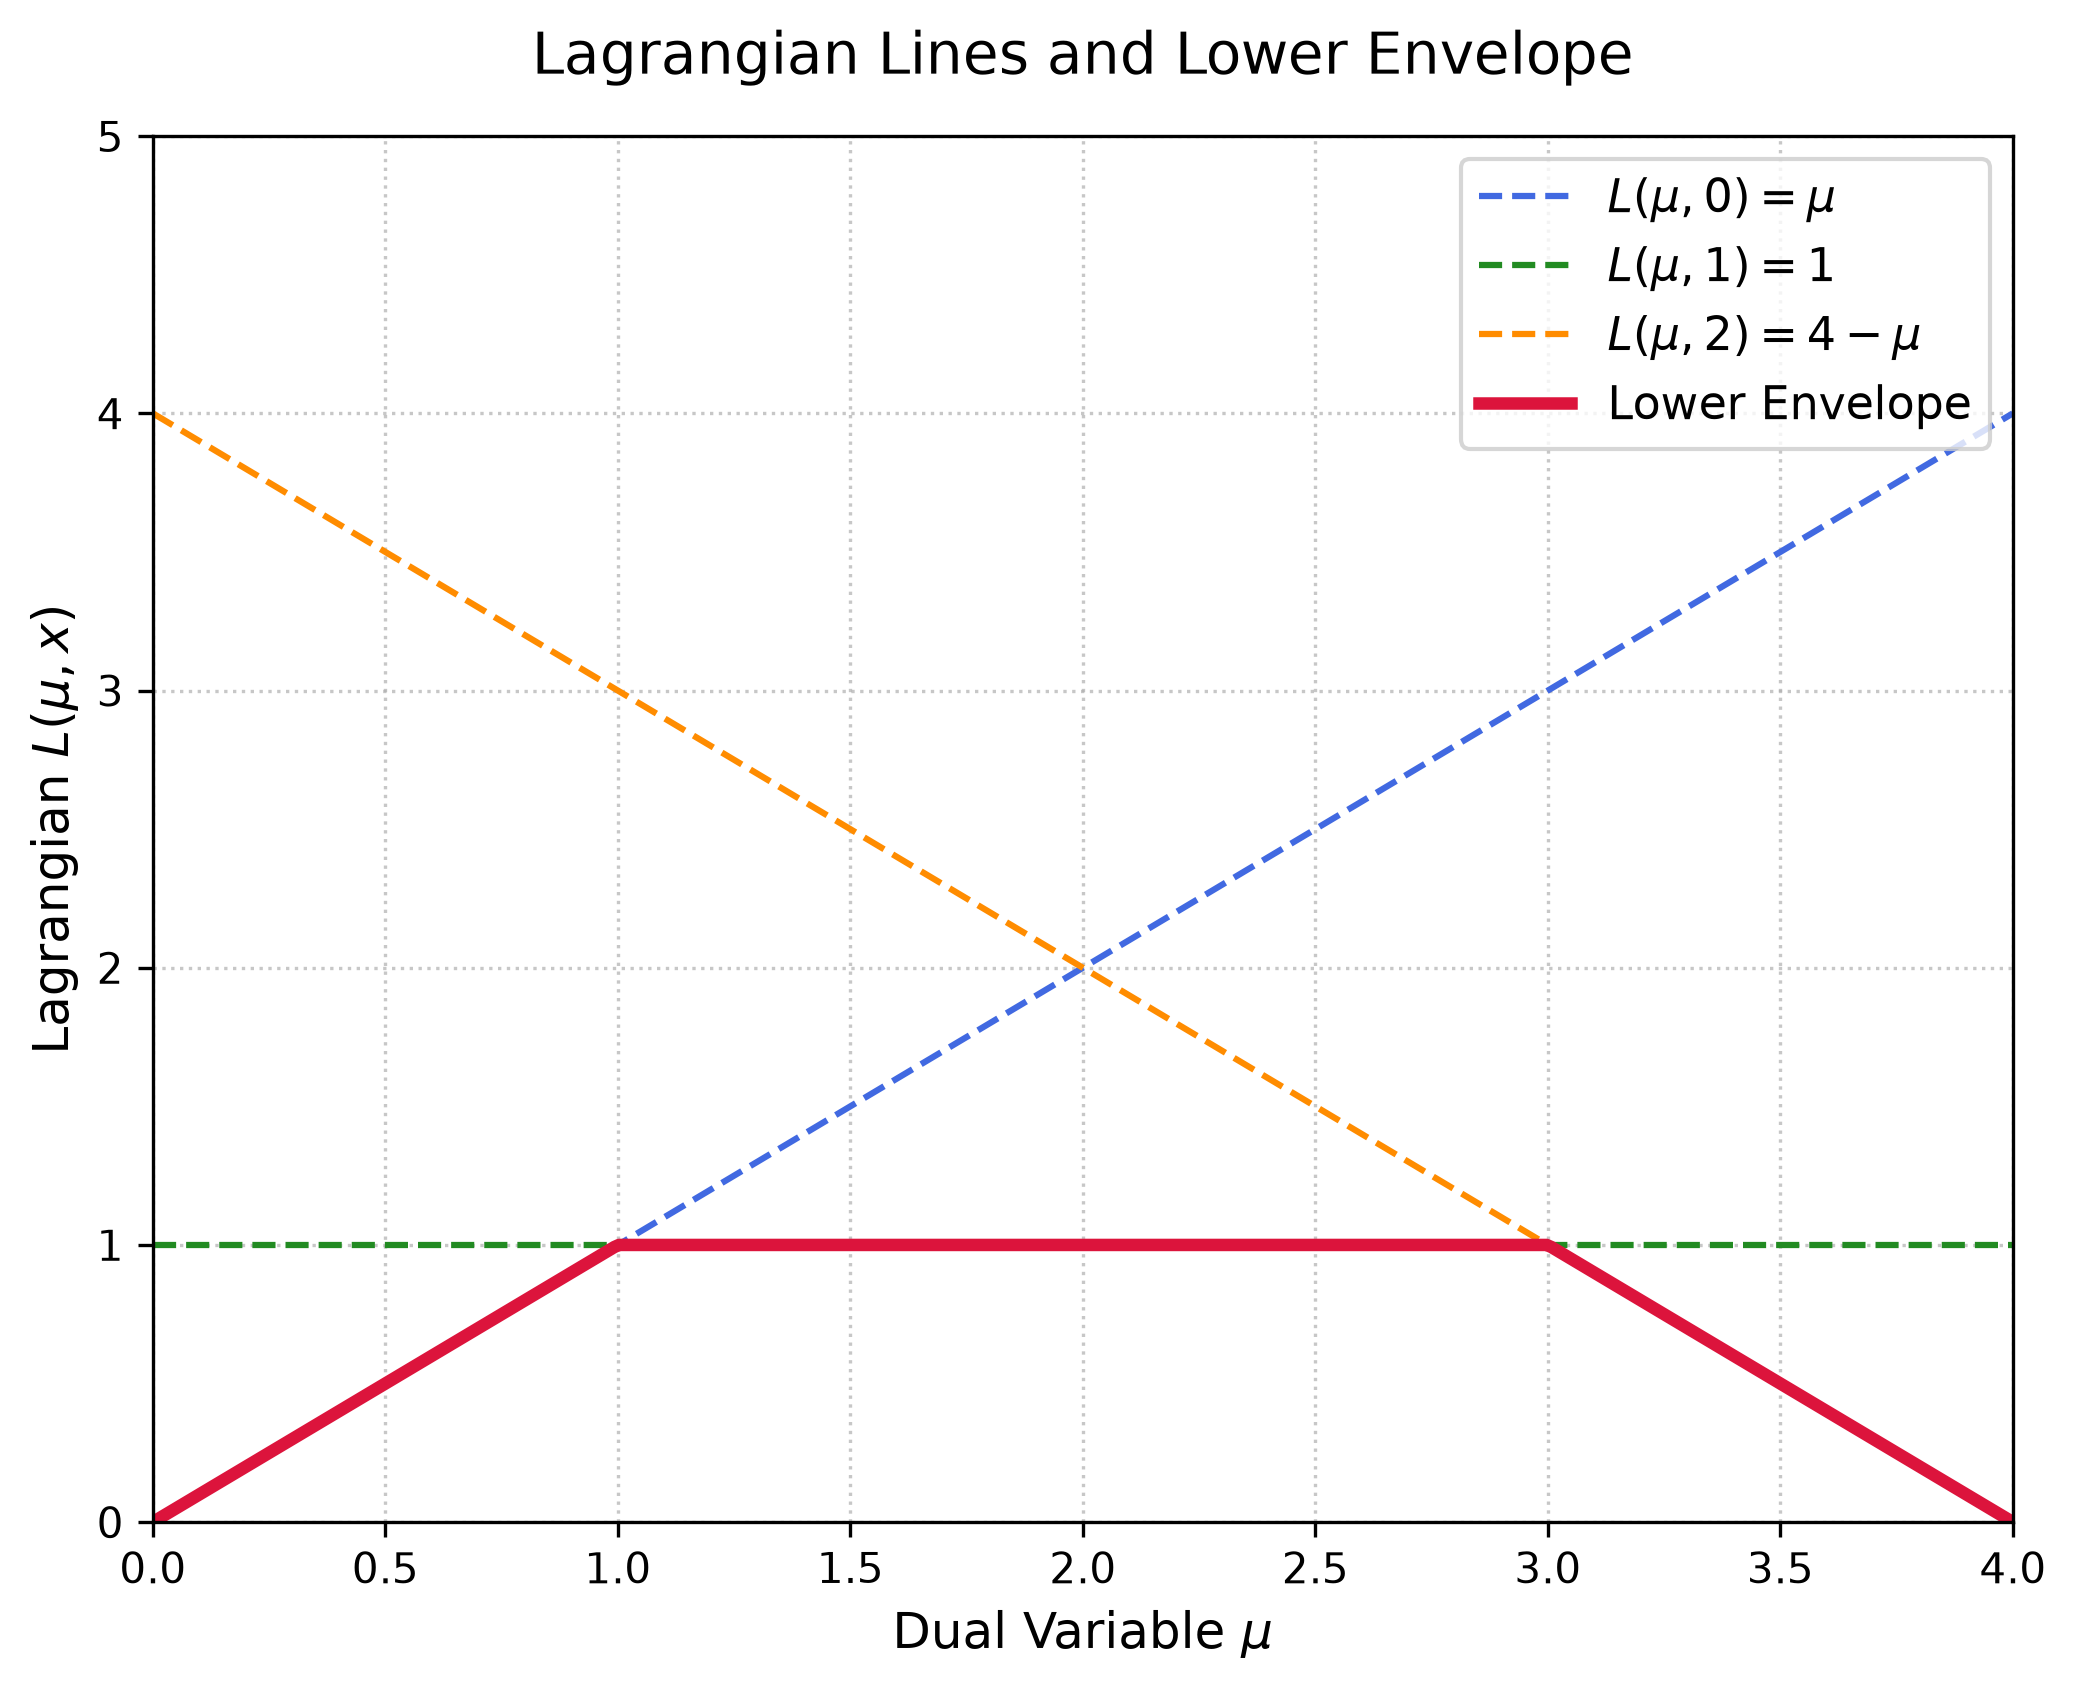
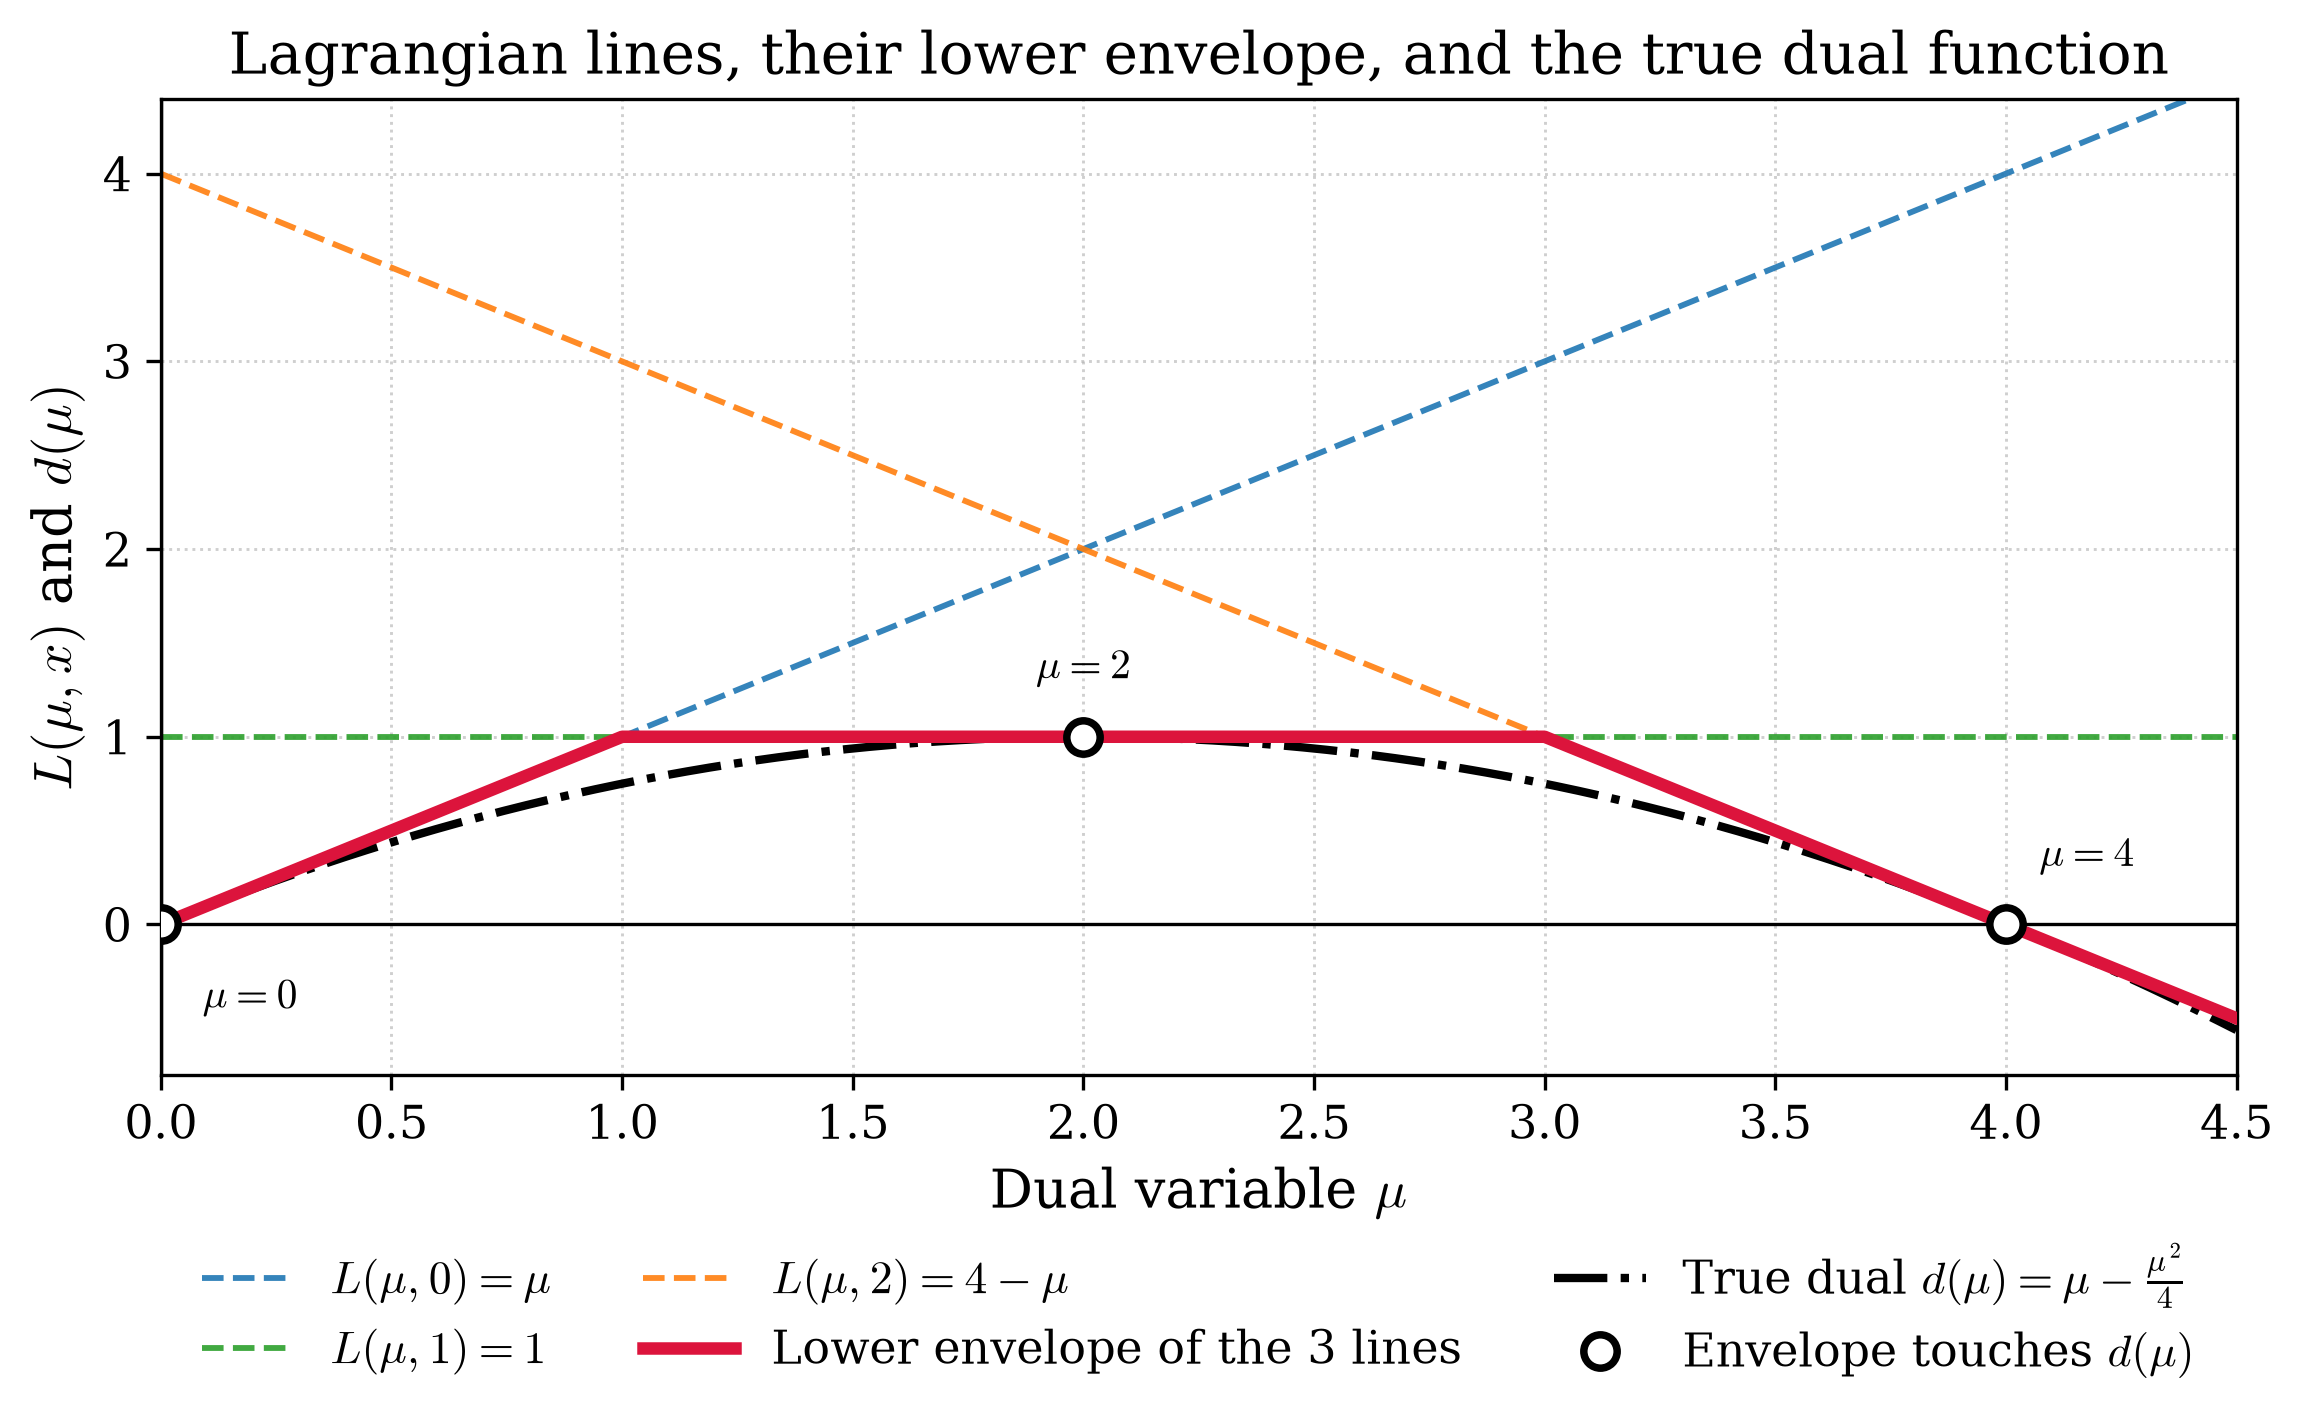
Lagrange line with d curve

diff --git a/lagrangian_lines.py b/lagrangian_lines.py
@@ -1,50 +1,87 @@
-import matplotlib.pyplot as plt
+"""
+EN3330 Assignment 03 - Question 3(b)
+Lagrangian lines L(mu, x) for fixed x = 0, 1, 2, their lower envelope,
+and the true dual function d(mu) = mu - mu^2/4.
+"""
+
 import numpy as np
+import matplotlib.pyplot as plt
 
-# Define range for the dual variable mu
-mu = np.linspace(0, 4, 400)
+# --- serif styling to match the LaTeX report -------------------------------
+plt.rcParams.update({
+    "font.family": "serif",
+    "mathtext.fontset": "cm",
+    "font.size": 12,
+    "axes.labelsize": 13,
+    "axes.titlesize": 14,
+    "legend.fontsize": 11,
+    "xtick.labelsize": 11,
+    "ytick.labelsize": 11,
+})
 
-# Lagrangian lines for x = 0, 1, 2
-L0 = mu  # L(mu, 0) = 0^2 + mu(1 - 0) = mu
-L1 = np.ones_like(mu) * 1  # L(mu, 1) = 1^2 + mu(1 - 1) = 1
-L2 = 4 - mu  # L(mu, 2) = 2^2 + mu(1 - 2) = 4 - mu
+MU_MAX = 4.5
+mu = np.linspace(0.0, MU_MAX, 1000)
 
-# Lower envelope of the three lines (pointwise minimum)
-lower_envelope = np.minimum(np.minimum(L0, L1), L2)
+# L(mu, x) = x^2 + mu(1 - x)  ->  slope (1 - x), intercept x^2
+lines = {
+    0: (mu,            r"$L(\mu,0)=\mu$",      "tab:blue"),
+    1: (np.ones_like(mu), r"$L(\mu,1)=1$",     "tab:green"),
+    2: (4.0 - mu,      r"$L(\mu,2)=4-\mu$",    "tab:orange"),
+}
 
-# Create the plot
-plt.figure(figsize=(8, 6))
-plt.plot(
-    mu, L0, label=r"$L(\mu, 0) = \mu$", linestyle="--", color="royalblue"
-)
-plt.plot(
-    mu, L1, label=r"$L(\mu, 1) = 1$", linestyle="--", color="forestgreen"
-)
-plt.plot(
-    mu, L2, label=r"$L(\mu, 2) = 4 - \mu$", linestyle="--", color="darkorange"
-)
-plt.plot(
-    mu,
-    lower_envelope,
-    label=r"Lower Envelope",
-    linewidth=3,
-    color="crimson",
-)
+envelope = np.min(np.vstack([v[0] for v in lines.values()]), axis=0)
+d_true = mu - mu**2 / 4.0          # true dual function
 
-# Formatting the plot
-plt.xlabel(r"Dual Variable $\mu$", fontsize=12)
-plt.ylabel(r"Lagrangian $L(\mu, x)$", fontsize=12)
-plt.title(
-    "Lagrangian Lines and Lower Envelope",
-    fontsize=14,
-    pad=15,
-)
-plt.xlim(0, 4)
-plt.ylim(0, 5)
-plt.grid(True, linestyle=":", alpha=0.7)
-plt.legend(fontsize=11, loc="upper right")
+fig, ax = plt.subplots(figsize=(8, 5))
 
-plt.savefig("lagrangian_lower_envelope.png", dpi=300, bbox_inches="tight")
-# Show the plot
-plt.tight_layout()
-plt.show()
+# the three Lagrangian lines
+for y, label, colour in lines.values():
+    ax.plot(mu, y, "--", lw=1.4, color=colour, label=label, alpha=0.9)
+
+# lower envelope of the three lines (the approximation)
+ax.plot(mu, envelope, "-", lw=3.0, color="crimson", zorder=4,
+        label=r"Lower envelope of the 3 lines")
+
+# true dual function
+ax.plot(mu, d_true, "-.", lw=2.0, color="black", zorder=3,
+        label=r"True dual $d(\mu)=\mu-\frac{\mu^{2}}{4}$")
+
+# tangency points: envelope touches d(mu) where the chosen x is the true
+# minimiser x*(mu) = mu/2, i.e. x = 0 -> mu = 0, x = 1 -> mu = 2, x = 2 -> mu = 4
+touch_mu = np.array([0.0, 2.0, 4.0])
+touch_d = touch_mu - touch_mu**2 / 4.0
+ax.plot(touch_mu, touch_d, "o", ms=8, mfc="white", mec="black",
+        mew=1.8, zorder=6, label="Envelope touches $d(\\mu)$")
+
+# per-point label offsets so none of them collide with the curves
+offsets = {0.0: (10, -20), 2.0: (0, 14), 4.0: (8, 14)}
+for m, d in zip(touch_mu, touch_d):
+    ax.annotate(rf"$\mu={m:.0f}$", xy=(m, d), xytext=offsets[m],
+                textcoords="offset points", fontsize=10,
+                ha="center" if m == 2.0 else "left")
+
+ax.axhline(0, color="black", lw=0.8)
+ax.axvline(0, color="black", lw=0.8)
+
+ax.set_xlabel(r"Dual variable $\mu$")
+ax.set_ylabel(r"$L(\mu,x)$ and $d(\mu)$")
+ax.set_title(r"Lagrangian lines, their lower envelope, and the true dual function")
+
+ax.set_xlim(0, MU_MAX)
+ax.set_ylim(-0.8, 4.4)
+ax.set_xticks(np.arange(0, MU_MAX + 0.5, 0.5))
+ax.grid(True, ls=":", lw=0.7, alpha=0.6)
+
+# legend outside the data so it does not sit on top of the curves
+ax.legend(loc="upper center", bbox_to_anchor=(0.5, -0.13),
+          ncol=3, frameon=False)
+
+fig.tight_layout()
+fig.savefig("lagrangian_lower_envelope.png", dpi=300, bbox_inches="tight")
+print("saved lagrangian_lower_envelope.png")
+
+# --- numerical check that the envelope never dips below the true dual ------
+assert np.all(envelope >= d_true - 1e-12), "envelope dips below d(mu)"
+for m in touch_mu:
+    e = min(m, 1.0, 4.0 - m)
+    print(f"mu={m:.0f}:  envelope={e:.4f}   d(mu)={m - m**2/4:.4f}")
